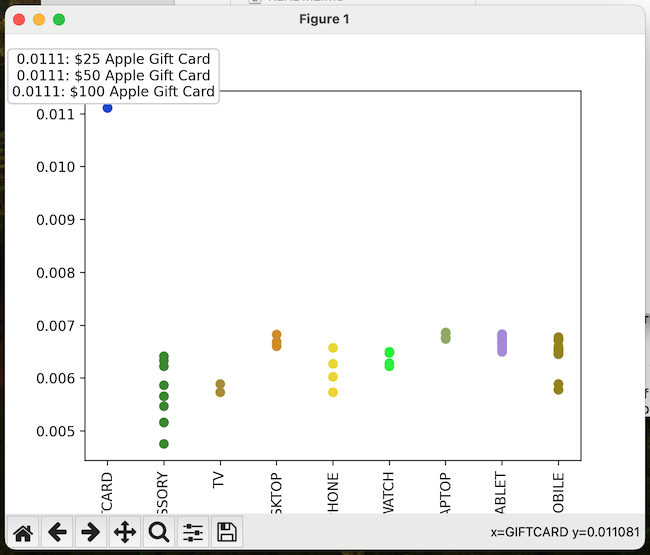
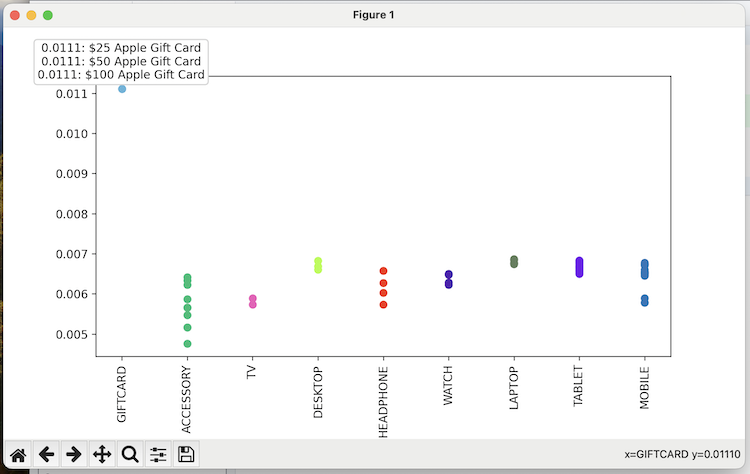
Fixed x axes clipping
Fixed issue where x axes labels were being clipped

diff --git a/visualization.py b/visualization.py
@@ -24,8 +24,10 @@ y = df['value'] = df['price']/df['points']
 c = df['color'] = [color_lookup[t] for t in x]
 df = df.sort_values('value')
 
-# create subplot
+# create & configure subplot
 fig, ax = plt.subplots()
+fig.set_size_inches(9, 5)
+fig.subplots_adjust(bottom=0.2)
 
 # scatter plot
 sc = ax.scatter(x, y, color=c)
